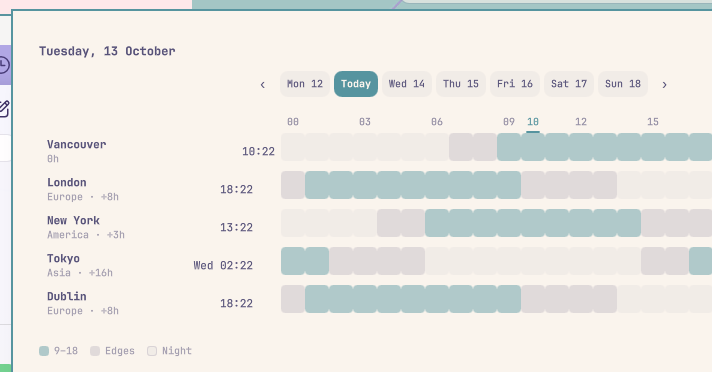
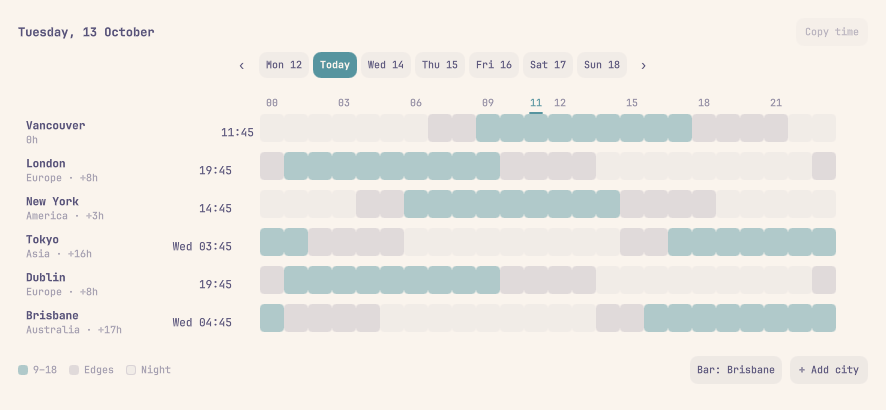
README: fresh matched light/dark gallery; preview refreshed

diff --git a/README.md b/README.md
@@ -5,16 +5,21 @@ A world clock for the Omarchy bar, with a meeting-planner panel in the
 against the hours of a day, so "when can we all talk?" is answered at a
 glance instead of with mental arithmetic.
 
-| Light theme | Dark theme |
-|---|---|
-| ![The bar in a light theme](screenshots/light-bar.png) | ![The bar in a dark theme](screenshots/dark-bar.png) |
-| ![The panel in a light theme](screenshots/light-panel.png) | ![The panel in a dark theme](screenshots/dark-panel.png) |
+**The bar** — a chosen city's time instead of local (the built-in clock
+already owns local), with the city's name:
 
-The bar label shows a chosen city's time rather than local (the built-in
-clock already owns local) — above, Brisbane's time in the bar's center
-section. The panel is the meeting planner: cities as rows, the day's hours
-as shaded columns, hover to line everyone up. Both re-tint live with
-`omarchy theme set`.
+| Light | Dark |
+|---|---|
+| <img src="screenshots/light-bar.png" width="440" alt="The bar label showing Brisbane 04:45 in a light theme"> | <img src="screenshots/dark-bar.png" width="440" alt="The bar label showing Brisbane 04:46 in a dark theme"> |
+
+**The panel** — cities as rows, the day's hours as columns shaded by what
+that hour is in each city; hover a column to line everyone up:
+
+| Light | Dark |
+|---|---|
+| <img src="screenshots/light-panel.png" width="443" alt="The meeting-planner panel in a light theme"> | <img src="screenshots/dark-panel.png" width="443" alt="The meeting-planner panel in a dark theme"> |
+
+Both re-tint live with `omarchy theme set`.
 
 ## The bar label
 
